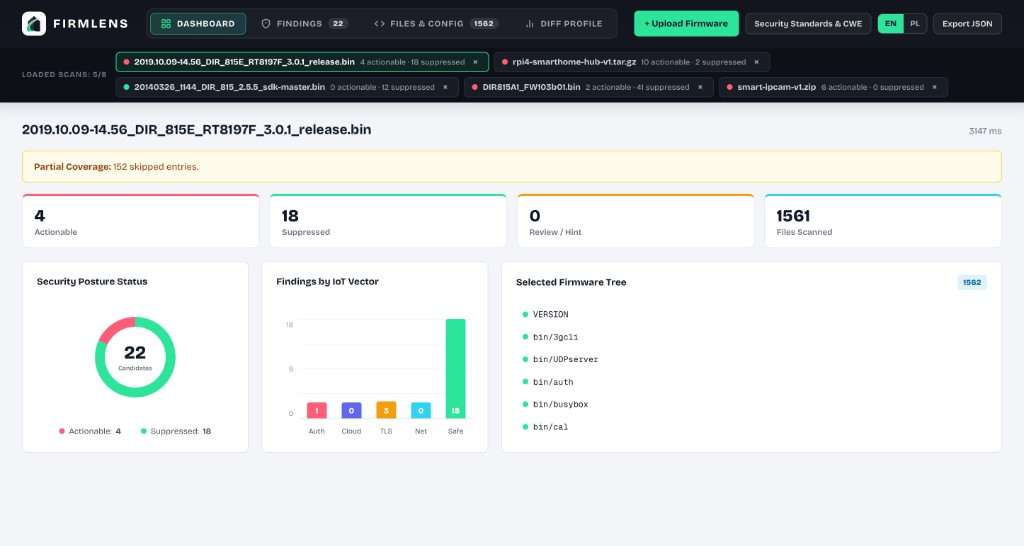
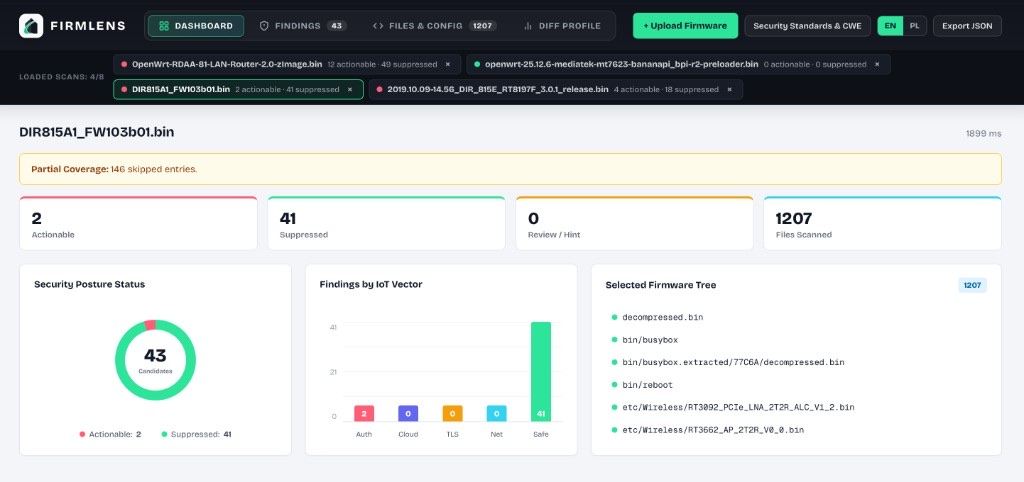
Refresh README dashboard preview with DIR-815 Binwalk scan.

diff --git a/README.md b/README.md
@@ -31,12 +31,12 @@ Built as an MSc cybersecurity research platform, FirmLens combines an independen
 ## Application Preview
 
 <p align="center">
-  <img src="docs/assets/dashboard-preview.jpg" alt="FirmLens Web Dashboard Screenshot" width="100%" />
+  <img src="docs/assets/dashboard-preview.jpg" alt="FirmLens dashboard — DIR815A1_FW103b01.bin after isolated Binwalk (2 actionable, 41 suppressed, redacted evidence)" width="100%" />
 </p>
 
 * **Top Command Deck & Mouse 4/5 Navigation:** Full-width navigation dock (`Dashboard`, `Findings`, `Files & Config`, `Version Diff`) synchronized with browser history (`Back` / `Forward`).
 * **Interactive Security Posture & IoT Vectors:** Clickable donut chart, IoT attack-vector bars (`Auth`, `Cloud`, `TLS/Key`, `Net/URI`, `Safe`), and live scan comparison (`Version Diff`).
-* **SonarCloud / SonarQube Code Inspector:** Clicking any file path on a finding opens the file inspector, highlights the exact line/byte offset, and shows redacted evidence alongside remediation guidance.
+* **SonarCloud / SonarQube Code Inspector:** Clicking any file path on a finding opens the file inspector, highlights the exact line/byte offset, and shows **redacted** evidence alongside remediation guidance (values never leave the engine).
 * **Standards Mapping & Bilingual UI (`EN | PL`):** Every rule maps to **MITRE CWE**, **OWASP IoT Top 10**, and **ETSI EN 303 645**, with instant English/Polish switching.
 
 ---
